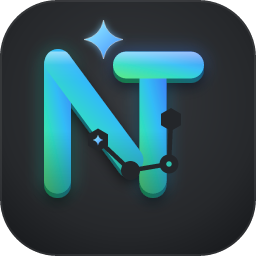
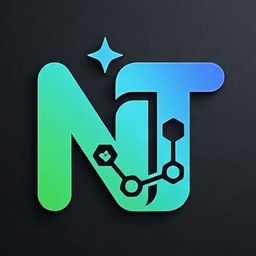
ใช้รูปโลโก้ต้นฉบับตามที่ผู้ใช้ส่งมา แทนการวาดใหม่
- tools/use-original-icon.js ครอปเฉพาะสี่เหลี่ยมจัตุรัสตรงกลาง
  ไม่แต่งสี ไม่เพิ่มความคม ไม่วาดใหม่ (จําเป็นเพราะ .ico ต้องเป็นจัตุรัส)
- build/icon.png 512px (ย่อจาก 531px เล็กน้อยเพื่อคงรายละเอียดเดิม)
  และ src/renderer/assets/icon.png 256px
- เก็บ tools/make-logo.js ไว้เผื่อกลับไปใช้แบบเวกเตอร์ภายหลัง

ทดสอบ: electron-builder --dir ผ่าน ไอคอนที่ดึงจาก NTAPI.exe
เป็นรูปต้นฉบับ และยังอ่านออกที่ 32px

diff --git a/app/tools/use-original-icon.js b/app/tools/use-original-icon.js
@@ -1,0 +1,46 @@
+'use strict';
+/**
+ * Installs the user's original artwork as the app icon, untouched.
+ *
+ * No redraw, no recolour, no sharpening: the JPEG is only cropped to a centred
+ * square (Windows .ico needs a square) and scaled down once. Anything else
+ * would be "editing" the design the user asked to keep as-is.
+ *
+ * Run:  node_modules/electron/dist/electron.exe tools/use-original-icon.js <src.jpg>
+ */
+const { app, nativeImage } = require('electron');
+const fs = require('fs');
+const path = require('path');
+
+app.disableHardwareAcceleration();
+app.whenReady().then(() => {
+  const src = process.argv[process.argv.length - 1];
+  const img = nativeImage.createFromPath(src);
+  const { width, height } = img.getSize();
+  if (!width || !height) {
+    console.error('could not read image:', src);
+    app.exit(1);
+    return;
+  }
+
+  const side = Math.min(width, height);
+  const square = img.crop({
+    x: Math.round((width - side) / 2),
+    y: Math.round((height - side) / 2),
+    width: side,
+    height: side,
+  });
+
+  const build = path.join(__dirname, '..', 'build');
+  const assets = path.join(__dirname, '..', 'src', 'renderer', 'assets');
+  fs.mkdirSync(build, { recursive: true });
+  fs.mkdirSync(assets, { recursive: true });
+
+  // 512 keeps almost every source pixel (531 -> 512) instead of inventing a
+  // 2x upscale, so the .ico stays as sharp as the original allows.
+  fs.writeFileSync(path.join(build, 'icon.png'), square.resize({ width: 512, height: 512, quality: 'best' }).toPNG());
+  fs.writeFileSync(path.join(assets, 'icon.png'), square.resize({ width: 256, height: 256, quality: 'best' }).toPNG());
+
+  console.log(`source ${width}x${height} -> cropped ${side}x${side} -> build/icon.png (512), assets/icon.png (256)`);
+  app.quit();
+});
